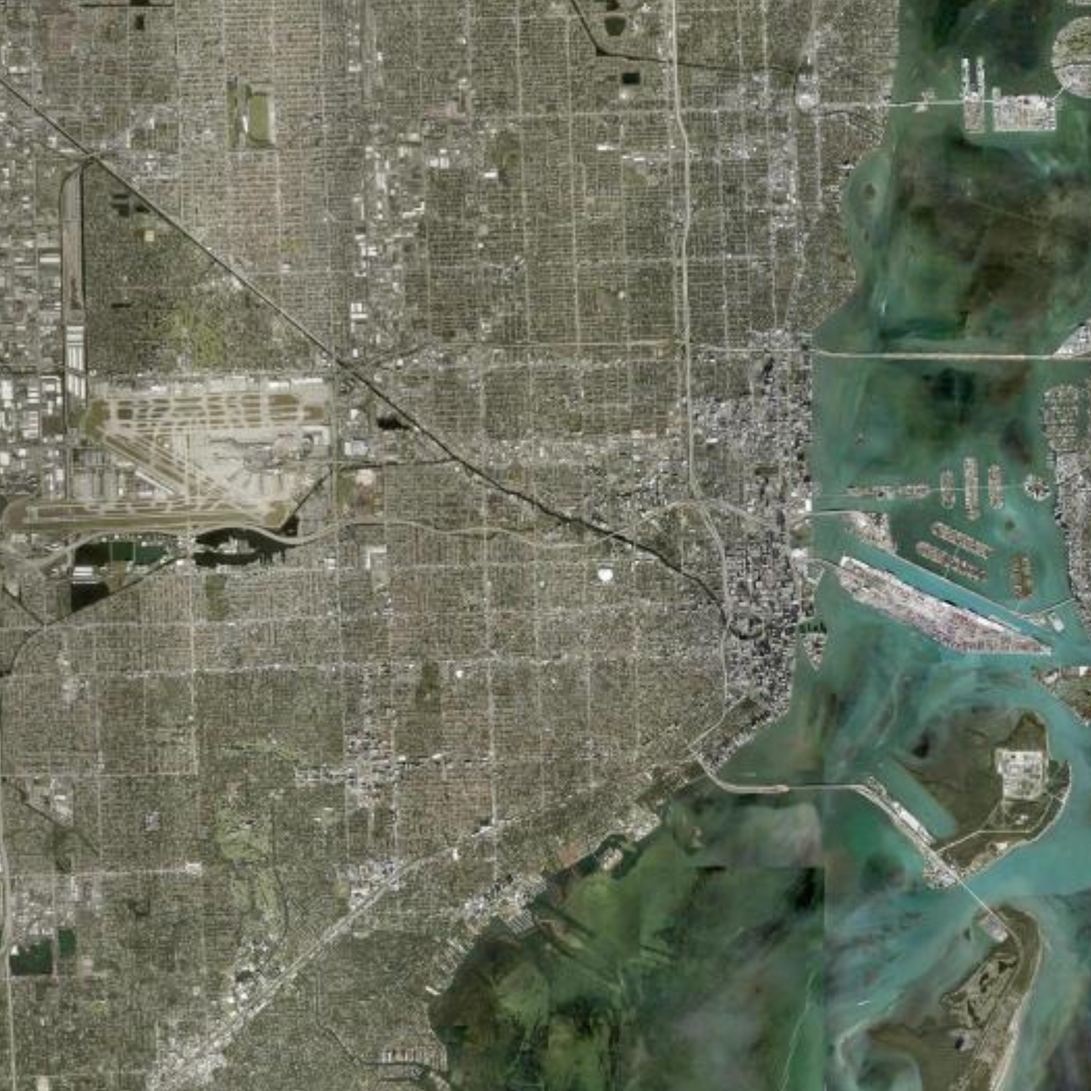
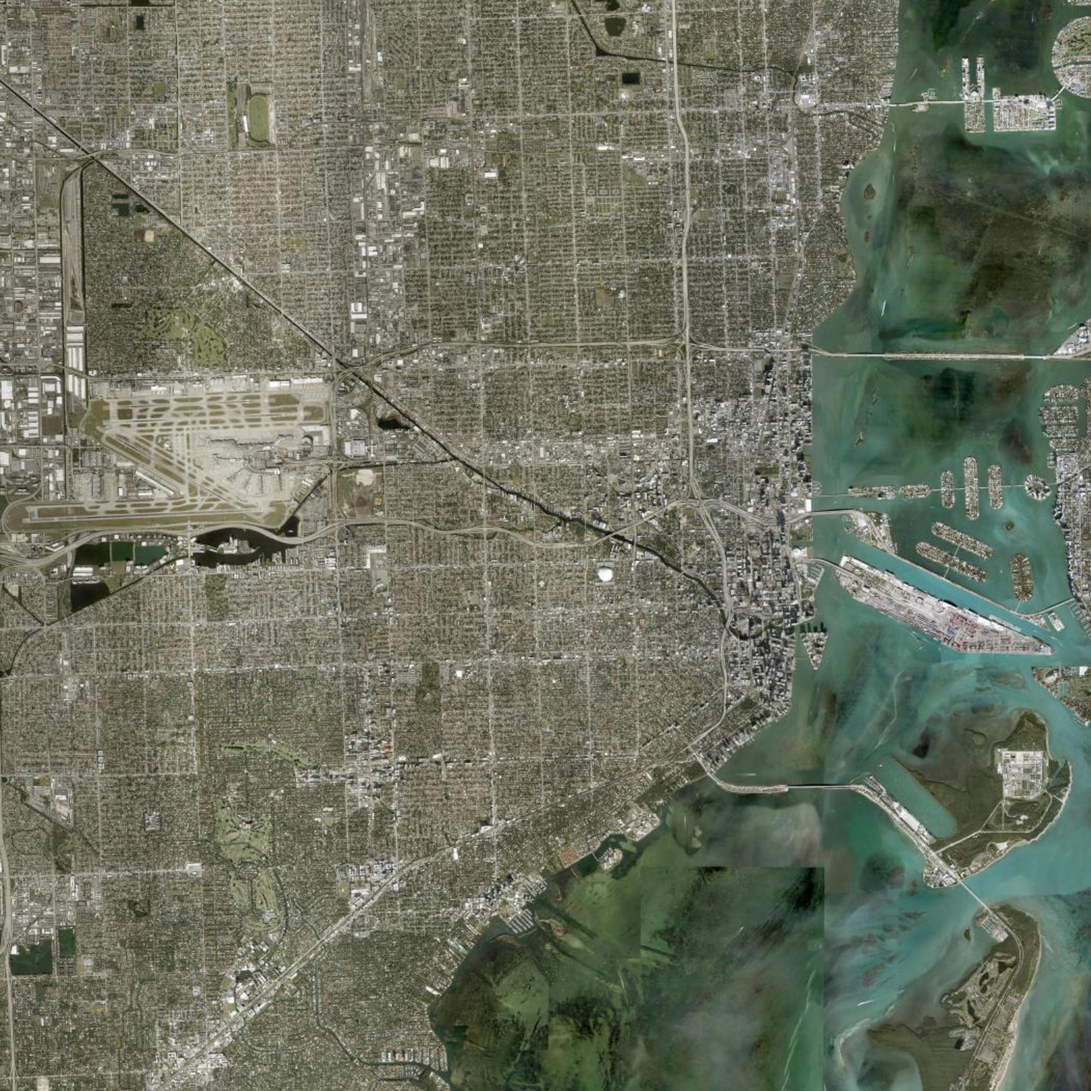
Added zoom command line option

diff --git a/mapshot.py b/mapshot.py
@@ -1,4 +1,5 @@
 """Return image."""
+import click
 import os
 import csv
 import sys
@@ -9,9 +10,29 @@ from shapely.geometry import box
 import matplotlib.pyplot as plt
 import contextily as cx
 
+
+@click.command()
+@click.argument('cityname', required=False)
+@click.option('--csv', 'csv_file', type=click.Path(exists=True), help='Process cities from CSV file')
+@click.option('--zoom', default=12, type=int, help='Zoom level for basemap (default: 12)')
+def main(cityname, csv_file, zoom):
+    """Generate square satellite imagery for cities."""
+    global ZOOM
+    ZOOM = zoom
+
+    if csv_file:
+        mapshot_from_csv(csv_file)
+    elif cityname:
+        mapshot(cityname)
+    else:
+        click.echo("Error: Provide either a city name or --csv file")
+        click.echo("Usage: python3 mapshot.py <cityname>")
+        click.echo("       python3 mapshot.py --csv <filepath>")
+        exit(1)
+
 def mapshot(cityname):
     """Create a mapshot of the inputted city."""
-    print("Starting\tmapshot()")
+    print(f"Starting\tmapshot({cityname})")
 
     data = osm(cityname)
 
@@ -48,6 +69,7 @@ def mapshot(cityname):
 def mapshot_from_csv(filepath):
     """Process multiple cities from CSV file."""
     print(f"Starting\tmapshot_from_csv()")
+    print("--" * 25)
 
     with open(filepath, 'r') as f:
         reader = csv.DictReader(f)
@@ -60,6 +82,8 @@ def mapshot_from_csv(filepath):
 
 def generate_plt(square_gdf, square, output_file):
     """Generate final output image."""
+    global ZOOM
+
     print("Starting\tgenerate_plt")
 
     img_size = 2048
@@ -75,7 +99,7 @@ def generate_plt(square_gdf, square, output_file):
     cx.add_basemap(
         ax,
         source=cx.providers.Esri.WorldImagery,
-        zoom=12,
+        zoom=ZOOM,
         attribution=False
     )
 
@@ -98,7 +122,8 @@ def generate_plt(square_gdf, square, output_file):
     )
     plt.close()
 
-    print(f"Saved {output_file}")
+    print(f"Saved images/{output_file}")
+    print("--" * 25)
 
 def osm(cityname):
     """Make request to Nomatim API search endpoint."""
@@ -116,17 +141,4 @@ def osm(cityname):
 
 
 if __name__ == "__main__":
-    if len(sys.argv) < 2:
-        print("Usage: python3 mapshot.py <cityname>")
-        print("       python3 mapshot.py --csv <filepath>")
-        exit(1)
-
-    print("Starting\tmapshot")
-    if sys.argv[1] == "--csv":
-        if len(sys.argv) != 3:
-            print("Usage: python3 mapshot.py <cityname>")
-            print("       python3 mapshot.py --csv <filepath>")
-            exit(1)
-        mapshot_from_csv(sys.argv[2])
-    else:
-        mapshot(sys.argv[1])
+    main()
